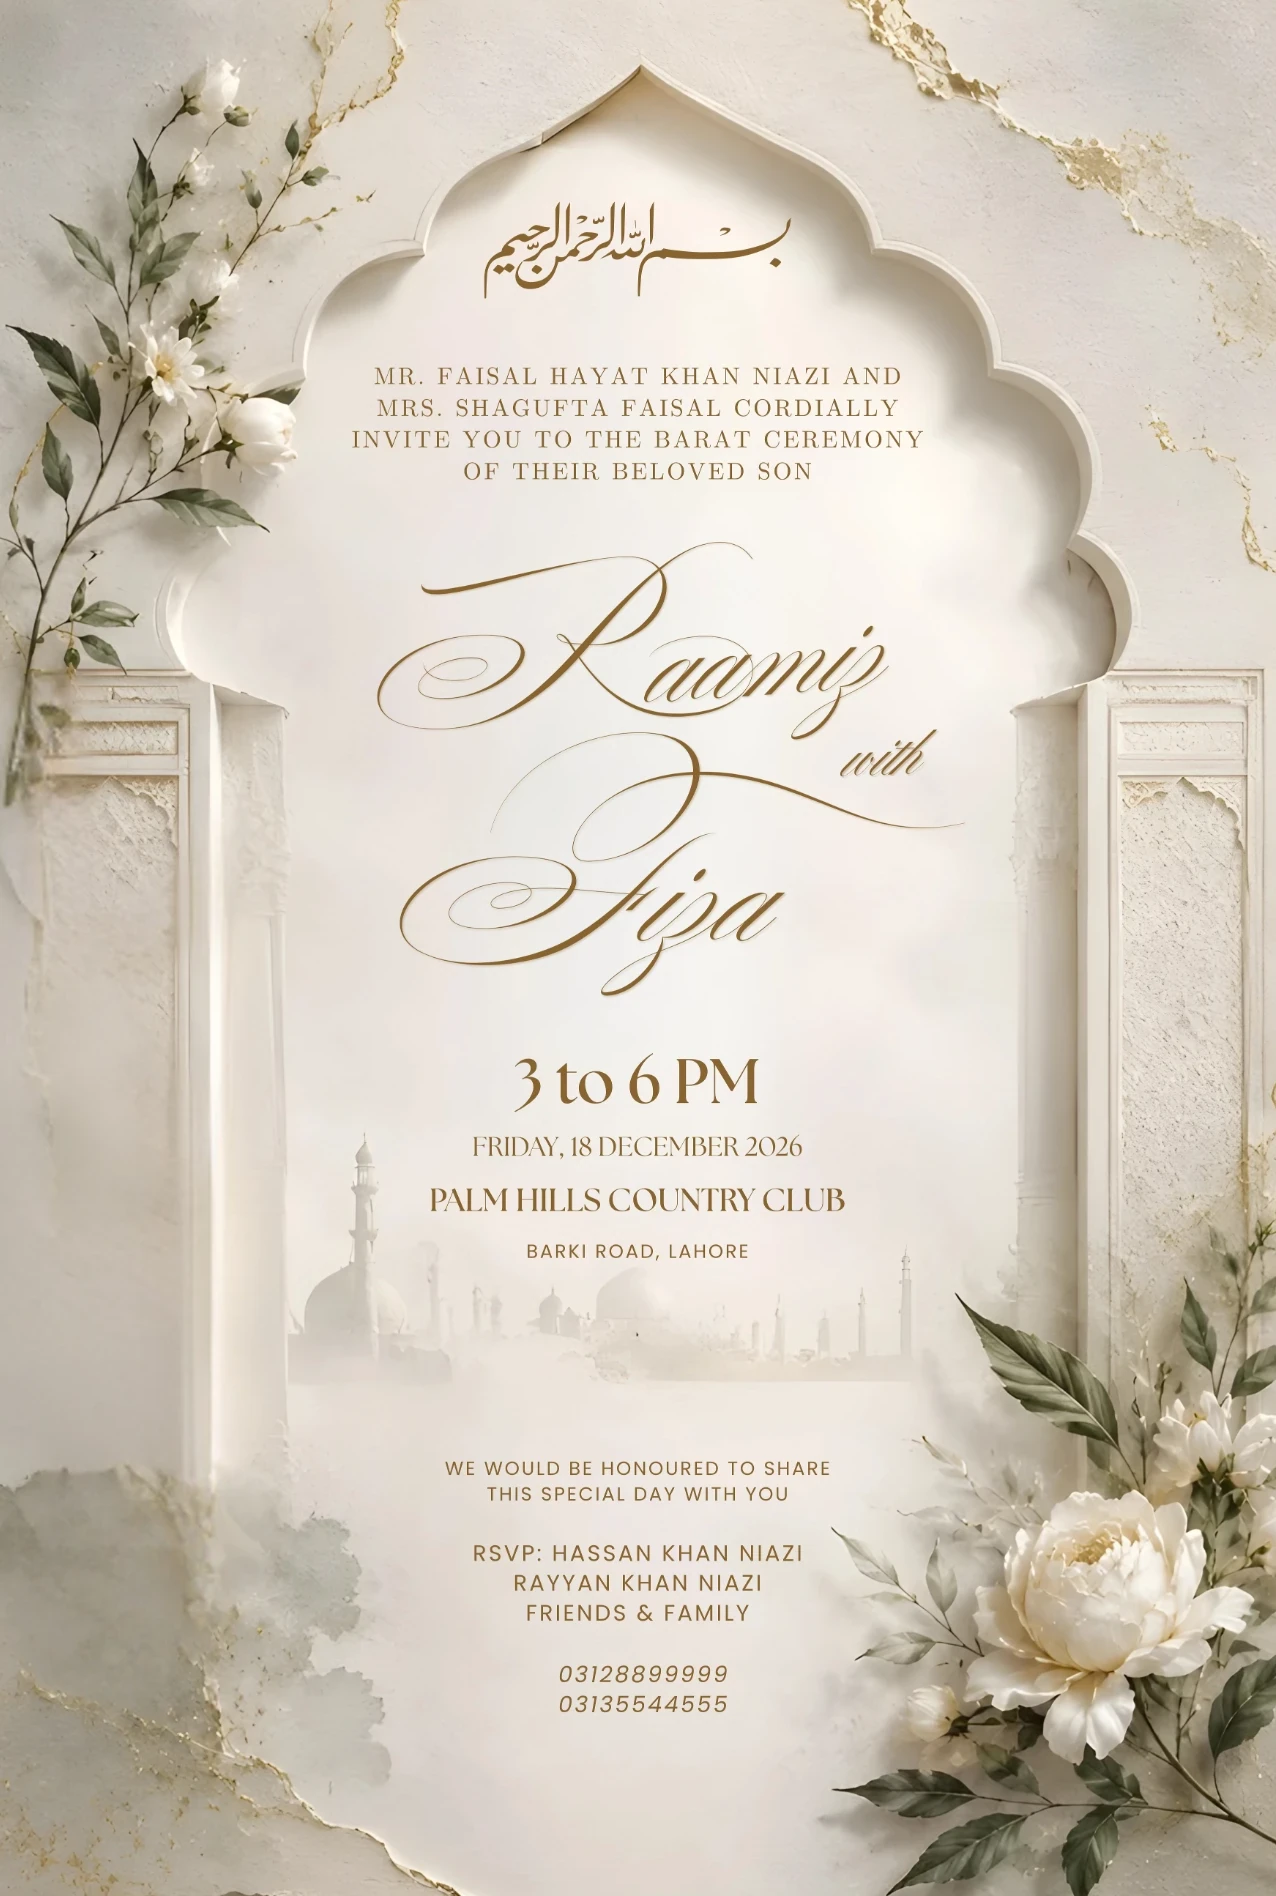
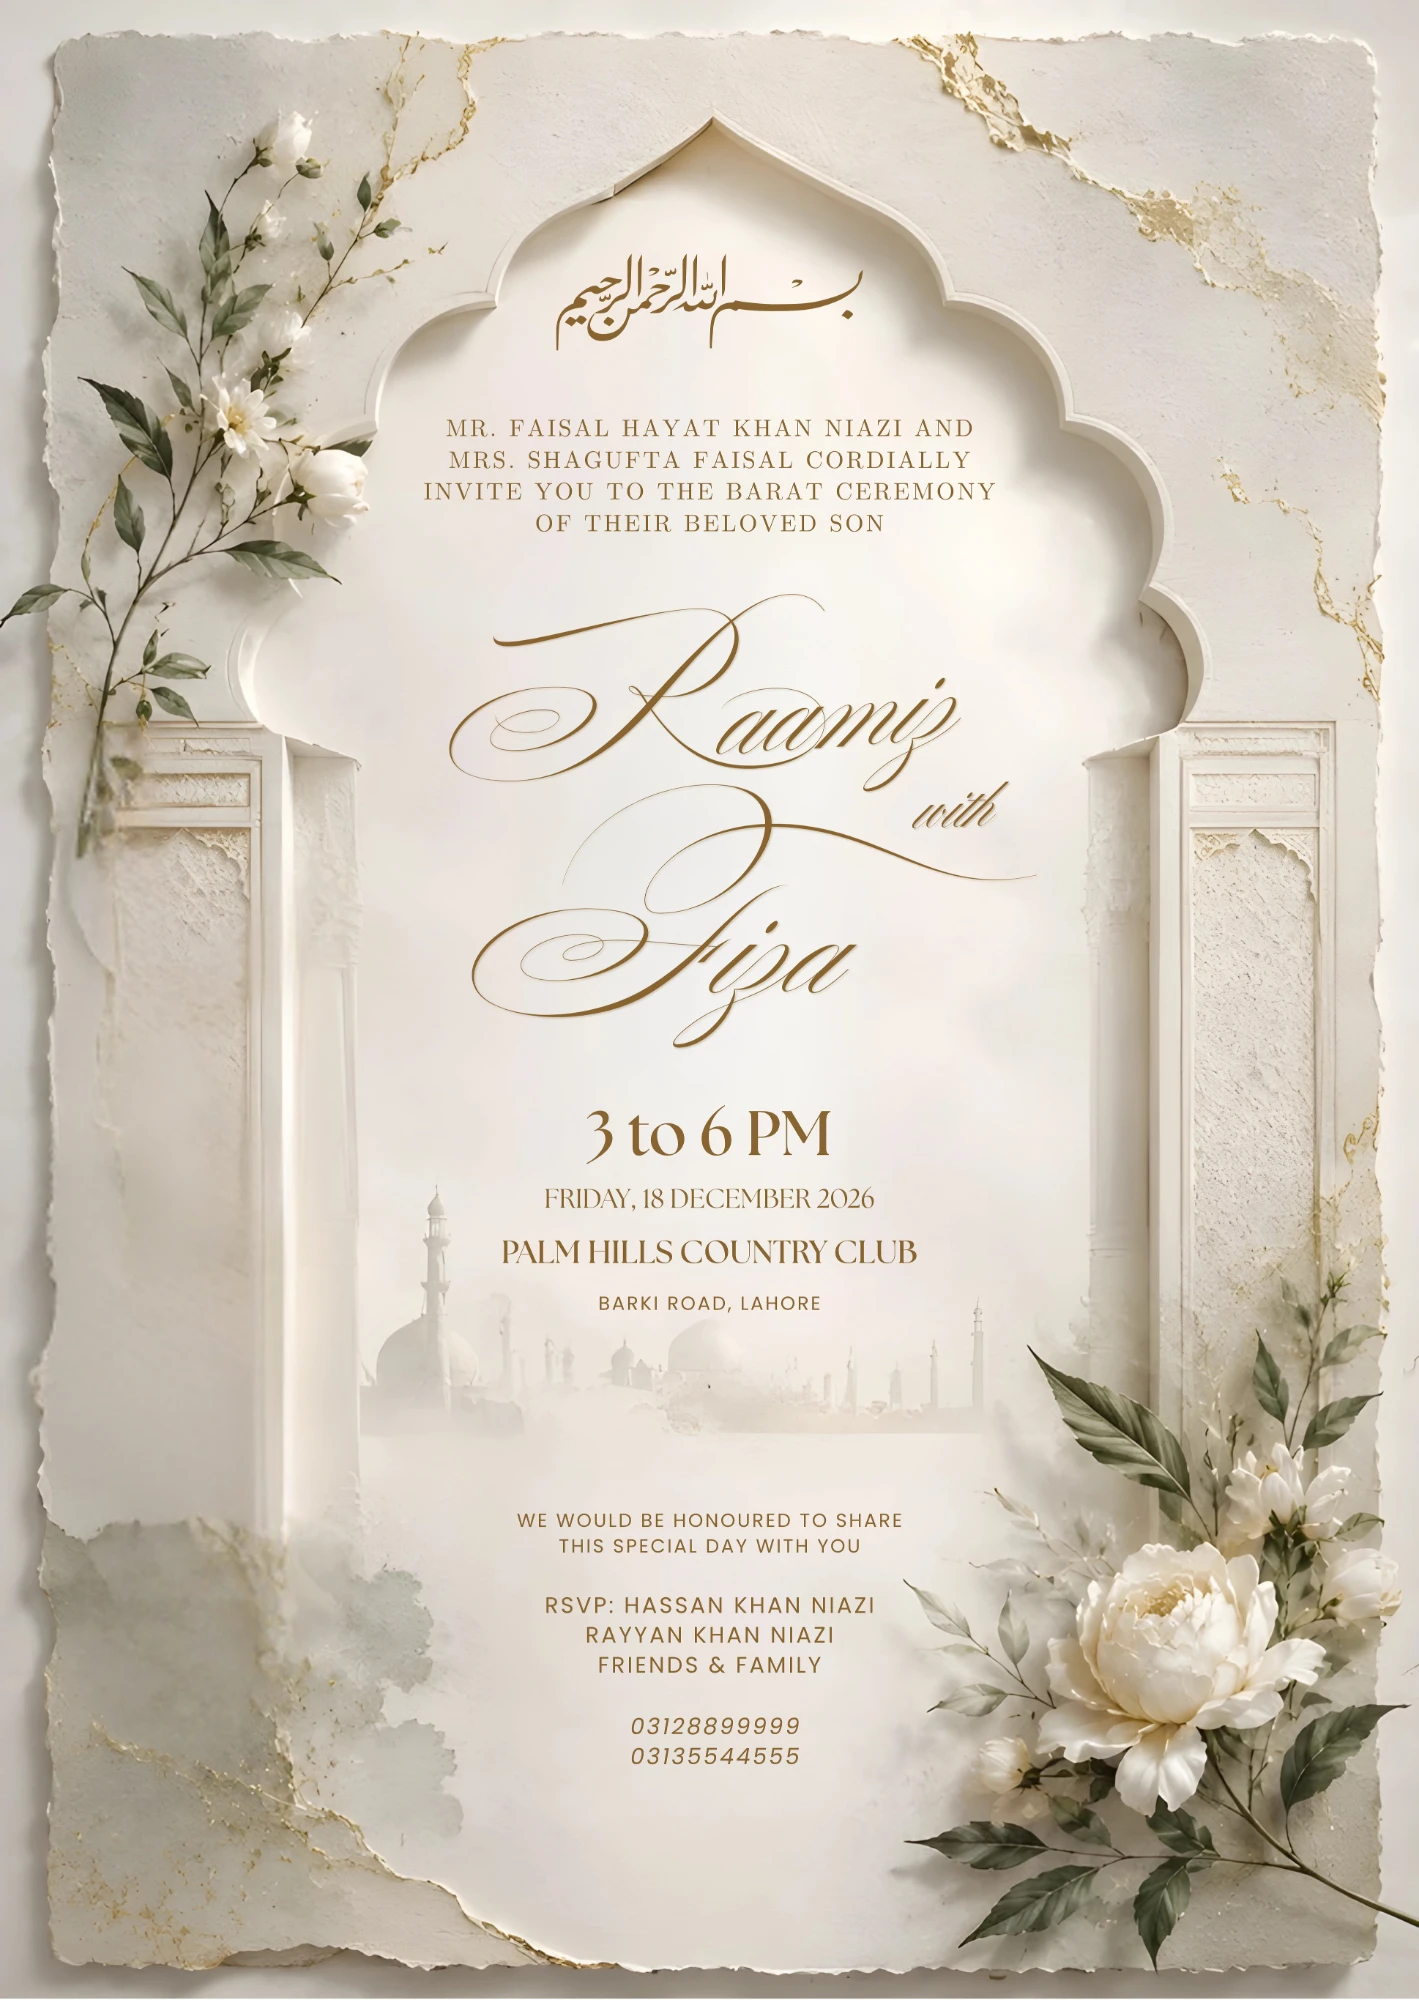
Bring back the Barat card's torn edges
The card shows as clean paper inside the envelope and the torn edges fade
in as it lands, as before. The shading and shadows on the card stay removed.

diff --git a/walima/index.html b/walima/index.html
@@ -13,7 +13,7 @@
 <meta property="og:title" content="You’re invited · Walima of Raamiz &amp; Fiza">
 <meta property="og:description" content="Sunday, 20 December 2026 · 1 to 4 PM · Montage Event Complex, Islamabad">
 <meta property="og:url" content="https://raamizkn.github.io/raamiz-fiza/walima/">
-<meta property="og:image" content="https://raamizkn.github.io/raamiz-fiza/assets/og-walima.jpg?v=2">
+<meta property="og:image" content="https://raamizkn.github.io/raamiz-fiza/assets/og-walima.jpg?v=3">
 <meta property="og:image:width" content="1200">
 <meta property="og:image:height" content="630">
 <meta property="og:image:alt" content="The Walima invitation card for Raamiz and Fiza">
@@ -23,8 +23,8 @@
 <link rel="preconnect" href="https://fonts.googleapis.com">
 <link rel="preconnect" href="https://fonts.gstatic.com" crossorigin>
 <link rel="stylesheet" href="https://fonts.googleapis.com/css2?family=Cormorant+Garamond:ital,wght@0,400;0,500;0,600;0,700;1,400;1,500&amp;family=Pinyon+Script&amp;display=swap">
-<link rel="preload" as="image" href="../assets/card-walima.webp?v=2" fetchpriority="high">
-<link rel="stylesheet" href="../assets/invite.css?v=2">
+<link rel="preload" as="image" href="../assets/card-walima.webp?v=3" fetchpriority="high">
+<link rel="stylesheet" href="../assets/invite.css?v=3">
 <noscript><style>.stage{display:none}html.is-sealed,html.is-sealed body{height:auto;overflow:auto}</style></noscript>
 </head>
 <body>
@@ -94,7 +94,10 @@
       </div>
 
       <div class="card-clip" aria-hidden="true">
-        <div class="card"><img class="card-art" src="../assets/card-walima.webp?v=2" alt="" width="1419" height="2000"></div>
+        <div class="card">
+          <img class="card-art feather" src="../assets/card-walima.webp?v=3" alt="" width="1419" height="2000">
+          <img class="card-full feather" src="../assets/card-walima.webp?v=3" alt="" width="1419" height="2000">
+        </div>
       </div>
 
       <div class="env-layer env-pocket" aria-hidden="true">
@@ -159,7 +162,7 @@
 
 <main class="invite">
   <section class="hero">
-    <img class="final-card" src="../assets/card-walima.webp?v=2" width="1419" height="2000" alt="Bismillah ir-Rahman ir-Rahim. Mr. Faisal Hayat Khan Niazi and Mrs. Shagufta Faisal cordially invite you to the Walima reception of their beloved son, Raamiz with Fiza. 1 to 4 PM, Sunday, 20 December 2026, Montage Event Complex, Main Gulberg Expressway, Islamabad. We would be honoured to share this special day with you. RSVP: Hassan Khan Niazi, Rayyan Khan Niazi, Friends &amp; Family. 03128899999, 03135544555.">
+    <img class="final-card feather" src="../assets/card-walima.webp?v=3" width="1419" height="2000" alt="Bismillah ir-Rahman ir-Rahim. Mr. Faisal Hayat Khan Niazi and Mrs. Shagufta Faisal cordially invite you to the Walima reception of their beloved son, Raamiz with Fiza. 1 to 4 PM, Sunday, 20 December 2026, Montage Event Complex, Main Gulberg Expressway, Islamabad. We would be honoured to share this special day with you. RSVP: Hassan Khan Niazi, Rayyan Khan Niazi, Friends &amp; Family. 03128899999, 03135544555.">
     <a class="scroll-hint" href="#details">Details<span class="cta-chevron"><svg viewBox="0 0 12 12" aria-hidden="true"><path d="M2.2 4.4 6 8.2l3.8-3.8" fill="none" stroke="currentColor" stroke-width="1.2" stroke-linecap="round" stroke-linejoin="round"/></svg></span></a>
   </section>
 
@@ -203,6 +206,6 @@
   </footer>
 </main>
 
-<script src="../assets/invite.js?v=2" defer></script>
+<script src="../assets/invite.js?v=3" defer></script>
 </body>
 </html>

diff --git a/barat/index.html b/barat/index.html
@@ -13,7 +13,7 @@
 <meta property="og:title" content="You’re invited · Barat of Raamiz &amp; Fiza">
 <meta property="og:description" content="Friday, 18 December 2026 · 3 to 6 PM · Palm Hills Country Club, Lahore">
 <meta property="og:url" content="https://raamizkn.github.io/raamiz-fiza/barat/">
-<meta property="og:image" content="https://raamizkn.github.io/raamiz-fiza/assets/og-barat.jpg?v=2">
+<meta property="og:image" content="https://raamizkn.github.io/raamiz-fiza/assets/og-barat.jpg?v=3">
 <meta property="og:image:width" content="1200">
 <meta property="og:image:height" content="630">
 <meta property="og:image:alt" content="The Barat invitation card for Raamiz and Fiza">
@@ -23,8 +23,8 @@
 <link rel="preconnect" href="https://fonts.googleapis.com">
 <link rel="preconnect" href="https://fonts.gstatic.com" crossorigin>
 <link rel="stylesheet" href="https://fonts.googleapis.com/css2?family=Cormorant+Garamond:ital,wght@0,400;0,500;0,600;0,700;1,400;1,500&amp;family=Pinyon+Script&amp;display=swap">
-<link rel="preload" as="image" href="../assets/card-barat.webp?v=2" fetchpriority="high">
-<link rel="stylesheet" href="../assets/invite.css?v=2">
+<link rel="preload" as="image" href="../assets/card-barat.webp?v=3" fetchpriority="high">
+<link rel="stylesheet" href="../assets/invite.css?v=3">
 <noscript><style>.stage{display:none}html.is-sealed,html.is-sealed body{height:auto;overflow:auto}</style></noscript>
 </head>
 <body>
@@ -94,7 +94,10 @@
       </div>
 
       <div class="card-clip" aria-hidden="true">
-        <div class="card"><img class="card-art" src="../assets/card-barat.webp?v=2" alt="" width="1276" height="1896"></div>
+        <div class="card">
+          <img class="card-art feather" src="../assets/card-barat.webp?v=3" alt="" width="1419" height="2000">
+          <img class="card-full feather" src="../assets/card-barat.webp?v=3" alt="" width="1419" height="2000">
+        </div>
       </div>
 
       <div class="env-layer env-pocket" aria-hidden="true">
@@ -159,7 +162,7 @@
 
 <main class="invite">
   <section class="hero">
-    <img class="final-card" src="../assets/card-barat.webp?v=2" width="1276" height="1896" alt="Bismillah ir-Rahman ir-Rahim. Mr. Faisal Hayat Khan Niazi and Mrs. Shagufta Faisal cordially invite you to the Barat ceremony of their beloved son, Raamiz with Fiza. 3 to 6 PM, Friday, 18 December 2026, Palm Hills Country Club, Barki Road, Lahore. We would be honoured to share this special day with you. RSVP: Hassan Khan Niazi, Rayyan Khan Niazi, Friends &amp; Family. 03128899999, 03135544555.">
+    <img class="final-card feather" src="../assets/card-barat.webp?v=3" width="1419" height="2000" alt="Bismillah ir-Rahman ir-Rahim. Mr. Faisal Hayat Khan Niazi and Mrs. Shagufta Faisal cordially invite you to the Barat ceremony of their beloved son, Raamiz with Fiza. 3 to 6 PM, Friday, 18 December 2026, Palm Hills Country Club, Barki Road, Lahore. We would be honoured to share this special day with you. RSVP: Hassan Khan Niazi, Rayyan Khan Niazi, Friends &amp; Family. 03128899999, 03135544555.">
     <a class="scroll-hint" href="#details">Details<span class="cta-chevron"><svg viewBox="0 0 12 12" aria-hidden="true"><path d="M2.2 4.4 6 8.2l3.8-3.8" fill="none" stroke="currentColor" stroke-width="1.2" stroke-linecap="round" stroke-linejoin="round"/></svg></span></a>
   </section>
 
@@ -203,6 +206,6 @@
   </footer>
 </main>
 
-<script src="../assets/invite.js?v=2" defer></script>
+<script src="../assets/invite.js?v=3" defer></script>
 </body>
 </html>

diff --git a/assets/invite.css b/assets/invite.css
@@ -29,8 +29,8 @@ html[data-event="barat"] {
   --shine-b: #b8944f;
   --shine-c: #f0dca6;
   --btn-bg: rgba(255, 255, 255, .42);
-  --card-ratio: 1276 / 1896; /* the barat artwork, cropped to the paper */
-  --card-ar: .673;
+  --card-ratio: 1419 / 2000;
+  --card-ar: .7095;
 }
 
 html[data-event="walima"] {
@@ -372,7 +372,12 @@ html.is-idle .seal-glint { animation: glint 4.6s ease-in-out infinite 1.4s; }
   transform-origin: 0 0;
   will-change: transform;
 }
-.card-art { display: block; width: 100%; height: 100%; }
+.card-art,
+.card-full { position: absolute; inset: 0; display: block; width: 100%; height: 100%; }
+/* barat: only the paper shows inside the envelope; the torn edges fade in as the card lands */
+html[data-event="barat"] .card-art { clip-path: inset(2.6% 5% 2.6% 5.07%); }
+.card-full { opacity: 0; will-change: opacity; }
+html[data-event="walima"] .card-full { display: none; }
 
 /* call to action */
 .cta {
@@ -447,6 +452,18 @@ html.is-idle .seal-glint { animation: glint 4.6s ease-in-out infinite 1.4s; }
   width: min(100%, calc((100svh - var(--sat) - var(--sab) - 72px) * var(--card-ar)));
   height: auto;
   aspect-ratio: var(--card-ratio);
+}
+
+/* The barat artwork is torn paper photographed on a surface — blend its outer edge into the page. */
+html[data-event="barat"] .feather {
+  -webkit-mask-image:
+    linear-gradient(90deg, transparent 0, #000 2.6%, #000 97.4%, transparent 100%),
+    linear-gradient(180deg, transparent 0, #000 1.3%, #000 98.2%, transparent 100%);
+  -webkit-mask-composite: source-in;
+  mask-image:
+    linear-gradient(90deg, transparent 0, #000 2.6%, #000 97.4%, transparent 100%),
+    linear-gradient(180deg, transparent 0, #000 1.3%, #000 98.2%, transparent 100%);
+  mask-composite: intersect;
 }
 
 .scroll-hint {

diff --git a/assets/invite.js b/assets/invite.js
@@ -204,6 +204,7 @@
   const clipBox = $('.card-clip');
   const card = $('.card');
   const cardImg = $('.card-art');
+  const cardFull = $('.card-full');
   const flapLayer = $('.env-flap');
   const flap = $('.flap');
   const shadeFront = $('.flap-front .shade');
@@ -219,6 +220,11 @@
   const glow = $('.stage-glow');
   const finalCard = $('.final-card');
   const invite = $('.invite');
+
+  // The barat artwork is torn paper on a surface; inside the envelope only the paper shows.
+  const PAPER = EVENT === 'barat'
+    ? { t: 0.026, r: 0.05, b: 0.026, l: 0.0507 }
+    : { t: 0, r: 0, b: 0, l: 0 };
 
   // choreography, in ms
   const T = {
@@ -267,10 +273,10 @@
     card.style.width = `${f.width}px`;
     card.style.height = `${f.height}px`;
 
-    const s0 = (0.9 * W) / f.width;
-    const visibleH = f.height * s0;
-    const x0 = e.left + 0.05 * W;
-    const y0 = e.top + 0.035 * H;
+    const s0 = (0.9 * W) / ((1 - PAPER.l - PAPER.r) * f.width);
+    const visibleH = (1 - PAPER.t - PAPER.b) * f.height * s0;
+    const x0 = e.left + 0.05 * W - PAPER.l * f.width * s0;
+    const y0 = e.top + 0.035 * H - PAPER.t * f.height * s0;
 
     // rise until about two-thirds of the card clears the pocket (its lowest point sits ~49.6% down)
     const target = e.top + 0.496 * H - 0.68 * visibleH;
@@ -340,6 +346,7 @@
     const Y = lerp(pathY, g.yf, fly);
     const S = lerp(g.s0, 1, fly);
     card.style.transform = `translate3d(${(X - g.cx).toFixed(2)}px,${(Y - g.cy - dy).toFixed(2)}px,0) scale(${S.toFixed(5)})`;
+    if (EVENT === 'barat') cardFull.style.opacity = seg(fly, [0.1, 0.9]).toFixed(3);
 
     // surroundings clear away
     cta.style.opacity = (1 - ease.out(seg(t, T.cta))).toFixed(3);

diff --git a/index.html b/index.html
@@ -13,7 +13,7 @@
 <meta property="og:title" content="Raamiz &amp; Fiza · Wedding invitations">
 <meta property="og:description" content="Barat · Friday, 18 December 2026 · 3 to 6 PM · Lahore — Walima · Sunday, 20 December 2026 · 1 to 4 PM · Islamabad">
 <meta property="og:url" content="https://raamizkn.github.io/raamiz-fiza/">
-<meta property="og:image" content="https://raamizkn.github.io/raamiz-fiza/assets/og-barat.jpg?v=2">
+<meta property="og:image" content="https://raamizkn.github.io/raamiz-fiza/assets/og-barat.jpg?v=3">
 <meta property="og:image:width" content="1200">
 <meta property="og:image:height" content="630">
 <meta name="twitter:card" content="summary_large_image">
@@ -188,12 +188,12 @@
 
   <div class="events">
     <a class="event" href="barat/">
-      <img src="assets/card-barat.webp?v=2" width="1276" height="1896" alt="Barat invitation card">
+      <img src="assets/card-barat.webp?v=3" width="1419" height="2000" alt="Barat invitation card">
       <h2>Barat</h2>
       <p>Friday, 18 December · 3–6&nbsp;PM<br>Palm Hills Country Club, Lahore</p>
     </a>
     <a class="event" href="walima/">
-      <img src="assets/card-walima.webp?v=2" width="1419" height="2000" alt="Walima invitation card">
+      <img src="assets/card-walima.webp?v=3" width="1419" height="2000" alt="Walima invitation card">
       <h2>Walima</h2>
       <p>Sunday, 20 December · 1–4&nbsp;PM<br>Montage Event Complex, Islamabad</p>
     </a>
